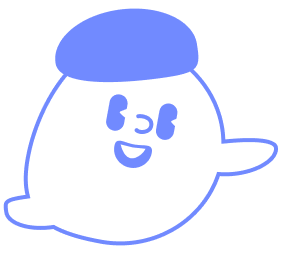
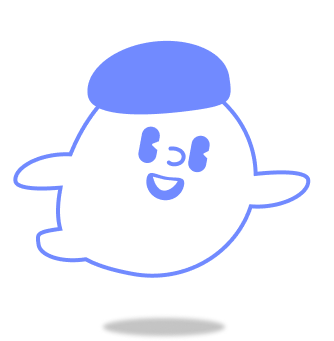
Refactor: 이미지 수정, dropdown 위치 수정

Changed region(s): [[0.0, 0.0293, 0.9522, 0.9963], [0.2457, 0.2051, 0.7372, 0.6154]]

diff --git a/src/pages/Main.tsx b/src/pages/Main.tsx
@@ -56,14 +56,14 @@ const Main = () => {
 						<h1>+</h1>
 						<p>새로운 강의 참가하기</p>
 						<Arm src='/images/arm2.png' />
-						<Character src='/images/character2.png' alt='' />
+						<Character src='/images/character2.png' />
 					</AddCardBox>
 				) : (
 					<AddCardBox onClick={openAddTeachClassModal}>
 						<h1>+</h1>
 						<p>새로운 강의 개설하기</p>
 						<Arm src='/images/arm2.png' />
-						<Character src='/images/character2.png' alt='' />
+						<Character src='/images/character2.png' />
 					</AddCardBox>
 				)}
 			</LowerContainer>
@@ -149,15 +149,25 @@ const SubTitle = styled.h2`
 	margin-bottom: 10px;
 `;
 
-const Arm = styled.img`
+const Arm = styled.div<{ src: string }>`
+	background-image: url(${({ src }) => src});
+	background-repeat: no-repeat;
+	background-position: center center;
 	position: absolute;
-	right: -15px;
-	bottom: 60px;
+	width: 30px;
+	height: 40px;
+	right: -20px;
+	bottom: 120px;
 `;
 
-const Character = styled.img`
+const Character = styled.div<{ src: string }>`
+	background-image: url(${({ src }) => src});
+	background-repeat: no-repeat;
+	background-position: center center;
+	width: 334px;
+	height: 336px;
 	position: absolute;
 	z-index: -1;
-	right: -200px;
-	bottom: 0px;
+	right: -220px;
+	bottom: 10px;
 `;

diff --git a/src/components/Header.tsx b/src/components/Header.tsx
@@ -1,15 +1,21 @@
 import styled from 'styled-components';
-import { Link } from 'react-router-dom';
+import { Link, useNavigate } from 'react-router-dom';
 import DropDown from './DropDown';
 import { RootState } from '../store/configStore';
 import { useSelector } from 'react-redux';
 
 const Header = () => {
+	const navigate = useNavigate();
 	const user = useSelector((state: RootState) => state.user);
+
+	const toMain = () => {
+		navigate('/');
+	};
+
 	return (
 		<>
 			<Container>
-				<Logo src='/images/logo.png' to='/' />
+				<Logo src='/images/logo.png' onClick={toMain} />
 				<DropDown name={user.user_info.name} />
 			</Container>
 		</>
@@ -27,13 +33,11 @@ const Container = styled.div`
 	background-color: ${({ theme }) => theme.colors.background};
 `;
 
-type LogoType = {
-	src: string;
-};
-
-const Logo = styled(Link)<LogoType>`
-	width: 130px;
-	height: 50px;
-	background-repeat: no-repeat;
+const Logo = styled.button<{ src: string }>`
+	background: none;
 	${(props) => `background-image: url(${props.src});`}
+	border: none;
+	width: 130px;
+	height: 70px;
+	background-repeat: no-repeat;
 `;

diff --git a/src/components/DropDown.tsx b/src/components/DropDown.tsx
@@ -54,6 +54,7 @@ const Name = styled.button`
 	cursor: pointer;
 	position: relative;
 	z-index: 101;
+	padding: 10px;
 `;
 
 const ArrowIcon = styled.div<{ src: string }>`
@@ -73,8 +74,8 @@ const Menu = styled.ul`
 	padding: 5px;
 	font-size: 13px;
 	font-weight: 400;
-	bottom: -70px;
-	left: -6px;
+	bottom: -60px;
+	left: 5px;
 	box-shadow: 0 2px 2px rgba(0, 0, 0, 0.25);
 	background-color: #fff;
 	& li {
